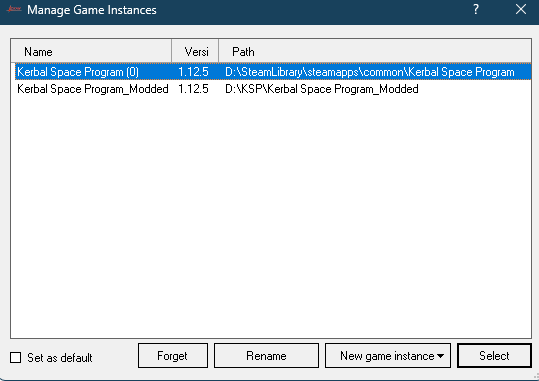
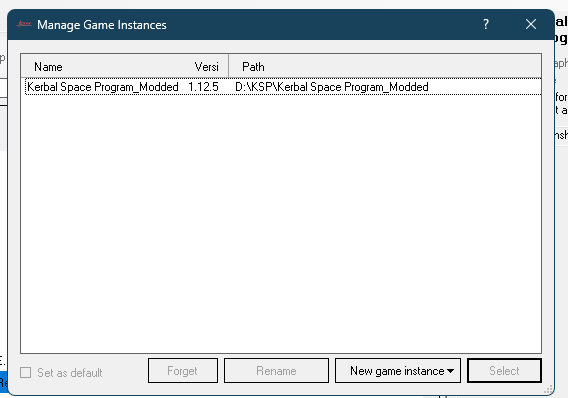
updated readme.md

Changed region(s): [[0.0, 0.0, 1.0, 1.0]]

diff --git a/README.md b/README.md
@@ -88,6 +88,10 @@ Select only KSP 1.12 and click Continue:
 
 ![CKAN Refresh Mod List](./images/CKAN_refresh_mod_list.png)
 
+4. You may see a permission dialog - click **Yes**:
+
+![CKAN Permission Handler](./images/CKAN_requires_permission_to_add_a_handler.png)
+
 ### Cleanup Game Instances
 
 - Go to **Settings** → **Manage Game Instances**
@@ -107,12 +111,11 @@ Select only KSP 1.12 and click Continue:
 
 ![CKAN File Menu](./images/CKAN_file_menu.png)
 
-3. Select the downloaded `.ckan` file
-4. You may see a permission dialog - click **Yes**:
+3. Press **Apply**
 
-![CKAN Permission Handler](./images/CKAN_requires_permission_to_add_a_handler.png)
+![CKAN Change Set](./images/CKAN_change_set.png)
 
-5. Confirm installation when prompted to overwrite:
+4. Confirm installation when prompted to overwrite:
 
 ![CKAN Overwrite Files](./images/CKAN_over_write_files.png)
 
@@ -152,12 +155,18 @@ Select only KSP 1.12 and click Continue:
 - **Texture Quality**: High or Full Res
 - ✅ Enable **Terrain Scatters**
 - **Terrain Scatters Quality**: High or higher
+- **Terrain Shader Quality**: High or higher
 
 ### Optional: Borderless Window
 
 1. Turn **OFF** Fullscreen in KSP settings
 2. In CKAN, hover over **Launch** button → **Edit Launch Command**
+
+![CKAN Play Hover](./images/CKAN_play_hover.png)
+
 3. Set to: `KSP_x64.exe -popupwindow`
+
+![CKAN Command Line](./images/CKAN_command_line.png)
 
 ### Test Your Installation
 
@@ -177,17 +186,82 @@ Select only KSP 1.12 and click Continue:
 
 You're now ready to explore the Kerbal universe with friends! 🚀
 
-## 🆘 Need Help?
+## 💡 Helpful Tips for First Time Players
 
-- Check GitHub Issues for common problems
-- Join our Discord for live support
-- Ensure all steps were followed exactly as written
+### Initial Mod Setup
+
+- **Click Through Blocker**: When prompted, select "Focus-Follows-Mouse" if unsure, then click accept
+- **Toolbar Controller**: Read the information and click "hide this window at startup" when finished
+- **Lunar Transfer Planner**: Close this window by clicking the crescent moon toolbar icon (not needed for basic gameplay)
+- **Principia**: Feel free to close this window for now
+- **kOS Connectivity**: If using kOS, set to "CommNetConnectivityManager" when prompted (for Real Antennas compatibility)
+
+### Visibility at Night
+
+The game uses UTC time, so it may be dark when you start. To improve visibility:
+
+1. Press `ESC` → **Settings**
+2. Find "Ambient Light Boost" setting
+3. Set to around 10-15% for better night visibility while maintaining realism
+
+### Launch Site Selection
+
+![Available Resources](./images/ksp_available_resources.png)
+
+Your starting launch site is Kennedy Space Center (KSC), which provides a good balance of difficulty and accessibility. To change launch sites:
+
+1. Go to **Tracking Station**
+2. Use the "eye" button to show/hide launch sites
+3. Click sites directly or use the list view
+4. **Kourou**: Easier launches, good for beginners
+5. **Baikonur**: More challenging, higher delta-V requirements
+
+### Understanding Resources
+
+Monitor your resources at the top of the screen:
+
+- **Funds**: Money for operations and construction
+- **Reputation**: Affects funding and contract availability
+- **Science**: Used to unlock new technology
+- **Confidence**: Spent on accelerated programs and bonuses
+
+### Contract Strategy
+
+![Accept Contracts](./images/ksp_accept_contracts.png)
+
+Visit Mission Control regularly to:
+
+- Accept available contracts for reputation and rewards
+- Focus on contracts that match your current capabilities
+- Remember: cancelled contracts have no penalties in this modpack
+
+### Building Strategy
+
+Start simple and work your way up:
+
+- Begin with suborbital flights before attempting orbit
+- Sounding rockets are perfect for early altitude and speed contracts
+- Test components thoroughly in atmosphere before space missions
+- Use the 100km Karman Line as your first major milestone
+
+### Additional Resources
+
+For detailed gameplay mechanics, advanced strategies, and comprehensive tutorials, refer to:
+**https://github.com/KSP-RO/RP-1/wiki/Early-Career-Tutorial**
+
+This guide covers advanced topics including:
+
+- Detailed career progression strategies
+- Complex mission planning techniques
+- Advanced mod interactions and configurations
+- In-depth explanations of realistic space program mechanics
 
 ## 📝 Notes
 
 - Keep your `_clean` copy for vanilla KSP or troubleshooting
 - CKAN will manage mod updates automatically
 - Server may have specific rules - check with administrators
+- Save frequently and use multiple save slots for important missions
 
 ---
 
